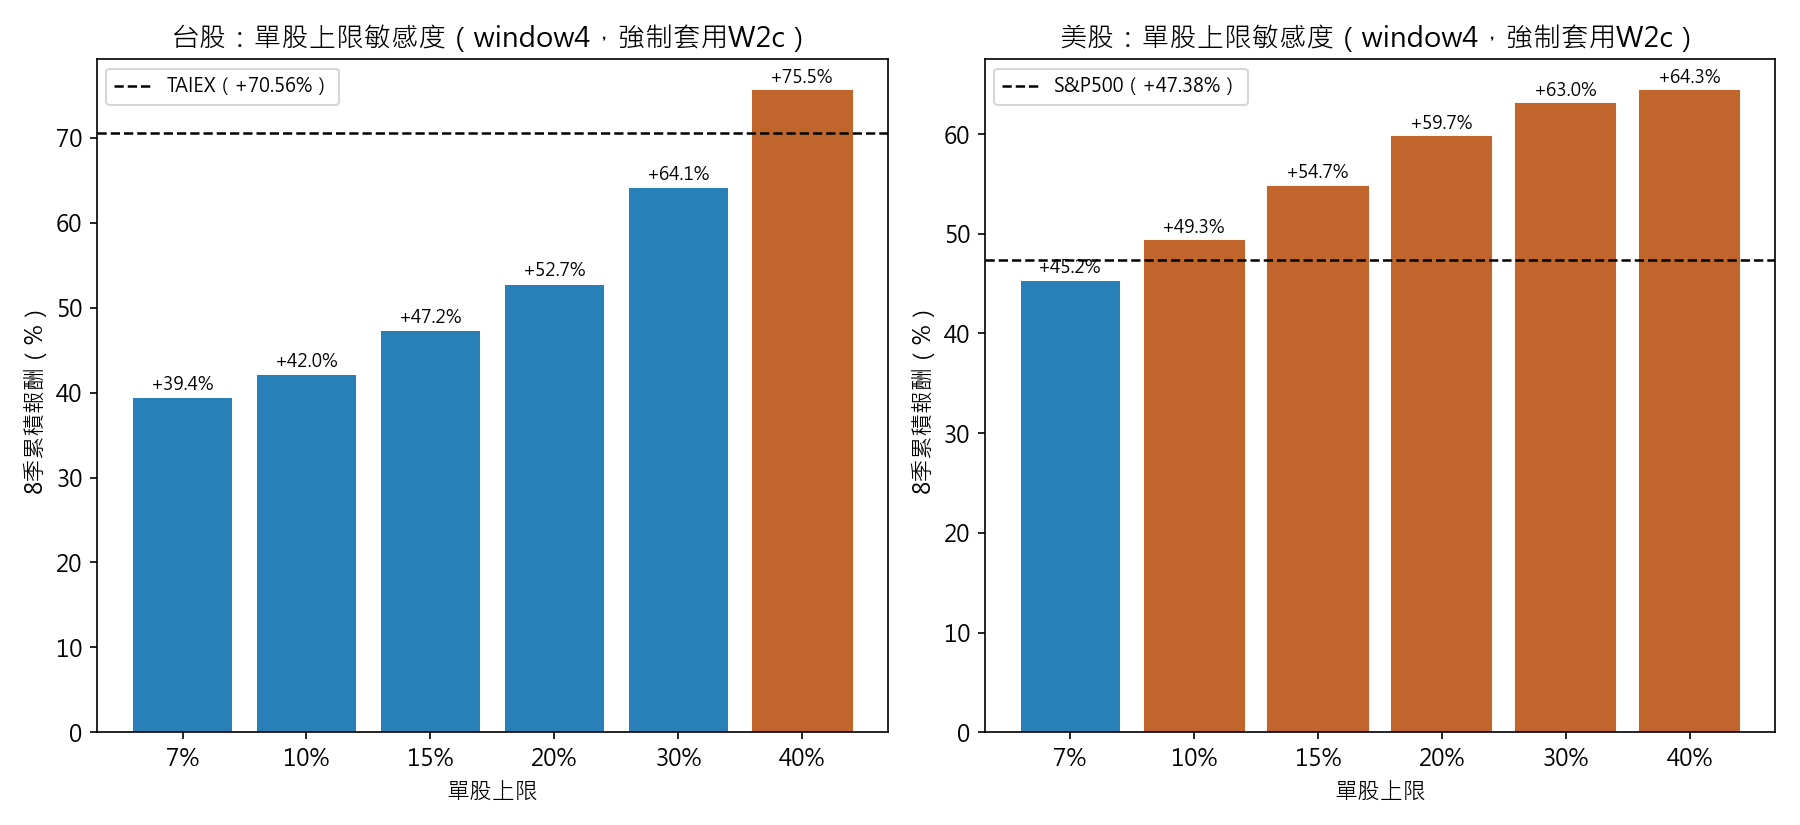
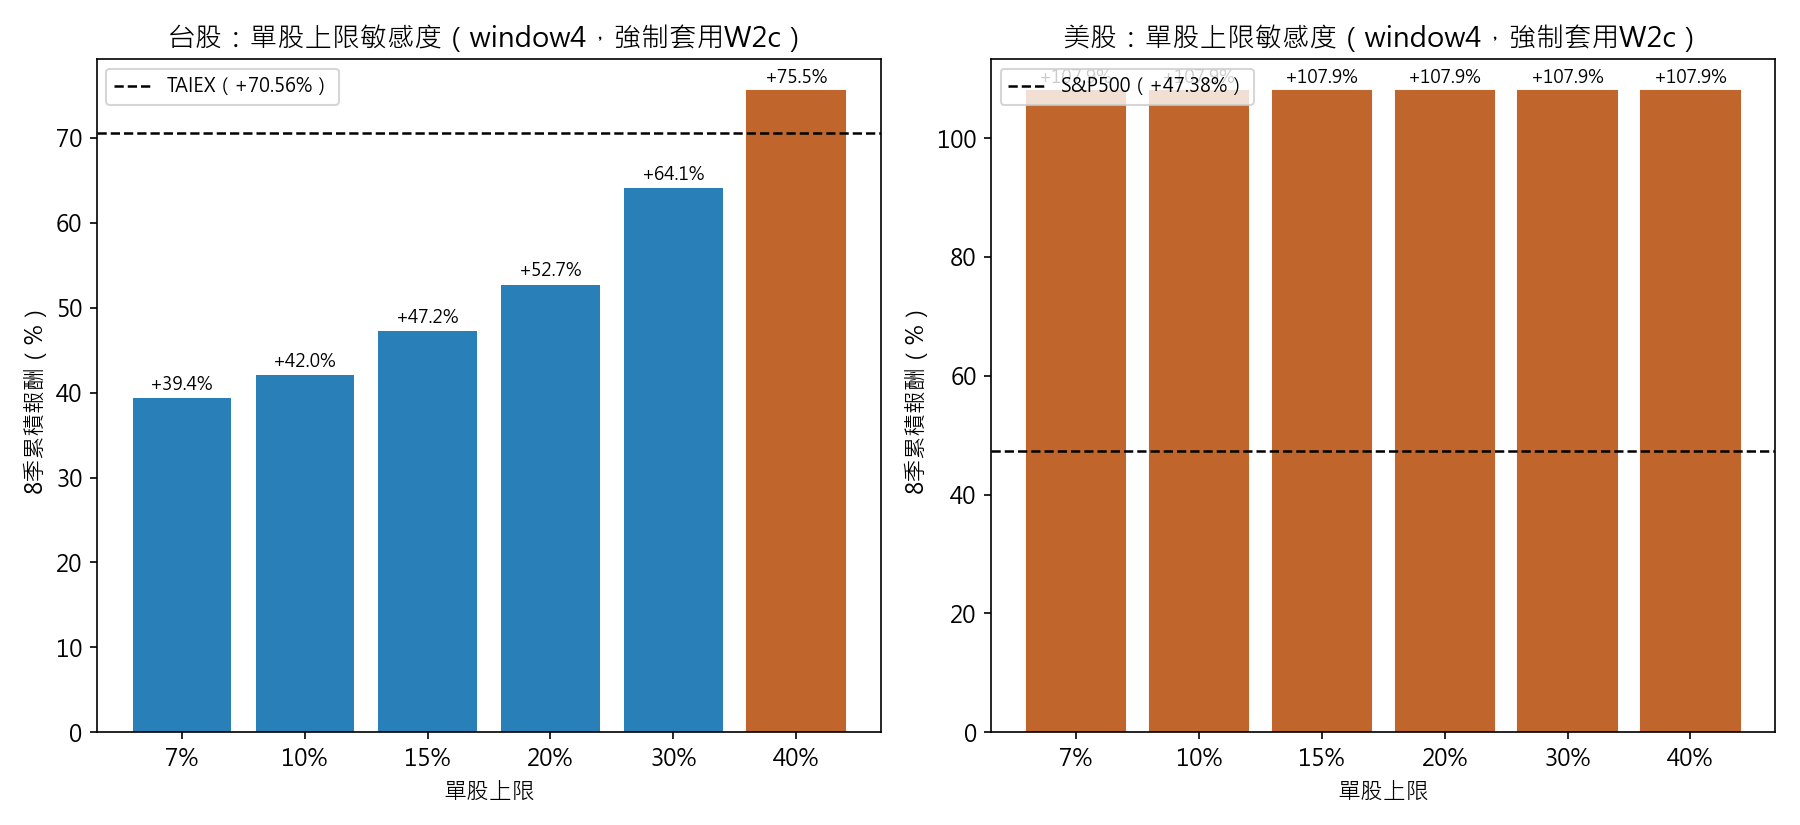
123

diff --git a/文件/研究進度報告_2026-10-27.md b/文件/研究進度報告_2026-10-27.md
@@ -41,7 +41,7 @@ TW+US各50%資本權重混合（exclude_v1池）：
 
 - 台股baseline：2024Q1（-0.79%）、2024Q4（-2.70%）小幅回撤後都創新高；2025Q1最深（-6.34%），比TAIEX同期（-9.89%）淺，隨即在2025Q2創新高——全程都比大盤淺。
 - 台股exclude_v1：2024Q4（-4.35%）、2025Q1最深（-12.91%，**比TAIEX同期更深**）、2025Q2仍在回撤中（-5.65%，TAIEX同期已收斂到-2.18%）——是四組裡唯一一組逐季軌跡劣於大盤的。
-- 美股baseline／exclude_v1：全程只有2024Q2（-2.43%／-2.92%，S&P500同期無回撤）跟2025Q1兩個回撤點，2025Q1兩者（-9.61%／-10.89%）都是S&P500同期（-4.27%）的2.2~2.5倍深，2025Q2起同步創新高。
+- 美股baseline／exclude_v1：全程只有2024Q2（-2.43%／-2.92%，S&P500同期無回撤）跟2025Q1兩個回撤點，2025Q1兩者（-9.61%／-10.89%）分別是S&P500同期（-4.27%）的2.25倍、2.55倍深，2025Q2起同步創新高。
 
 ## 五、台股策略跟不上大盤的原因
 
@@ -101,20 +101,19 @@ TW+US各50%資本權重混合（exclude_v1池）：
 | 30% | +64.07% | -6.49pp | -8.95% |
 | 40% | **+75.47%** | **+4.92pp（贏大盤）** | -9.80% |
 
+⚠ **2026-10-27訂正**：下面美股數字原本誤用了台股的單檔市值傾斜變體計算，正確設計應該是`W2C_VARIANT_BY_MARKET`指定的**籃子版（K=3，往市值最大3檔分散傾斜）**——production正式路徑（`simulate.py`）一直都有正確分流，只有這支離線cap-sweep腳本漏接，已修正重算。
+
 **美股**（對照S&P500：累積+47.38%，同期MDD **-4.27%**）：
 
 | 上限 | 8季累積報酬 | 超額 | MDD（季頻取樣） |
 |---|---|---|---|
-| 7% | +45.22% | -2.16pp | -3.93% |
-| 10% | **+49.27%** | **+1.89pp（已贏大盤）** | -5.00% |
-| 15% | +54.72% | +7.34pp | -6.76% |
-| 20% | +59.71% | +12.33pp | -8.47% |
-| 30% | +62.99% | +15.61pp | -9.88% |
-| 40% | +64.29% | +16.91pp | -9.88% |
+| 7%~40%（全部） | **+107.86%** | **+60.48pp（全面贏大盤）** | -10.93% |
 
-兩個市場曲線形狀不同：台股報酬隨上限放寬平滑上升、要到40%才贏大盤；美股只要10%就贏大盤，且20~30%之後報酬成長明顯趨緩（30%→40%只增加1.3pp，20%→30%增加3.28pp）。MDD則兩市場都隨上限放寬單調惡化（上限越鬆、持股越集中、回撤越深），美股30%→40%MDD持平（-9.88%兩者相同，代表那兩季的最大回撤已由同一檔重壓股主導、上限放寬到40%未再進一步加劇集中）；報酬跟風險呈同向抵換，上限放寬不是「免費的」報酬提升。
+🔴 **cap在7%~40%整個範圍內對美股完全無感**——六個上限等級的報酬/MDD逐位完全相同。原因是籃子版的傾斜幅度天生就很小：診斷每季籃子內最大單股權重，8季範圍只有0.87%~1.72%（`tilt_weights_basket()`只重分配籃子3檔股票原本就很小的權重總和，不像單檔版會把整個投組的市值加權都灌到一檔），離最低測試上限7%還差一大截，`cap_and_redistribute()`從頭到尾沒被觸發過一次。這不是失敗，是籃子設計（K=3分散）跟cap機制交互作用下的真實結果：**單股上限這個維度對美股的籃子版W2c沒有調整空間**，要讓美股受cap影響，得先放大`W2C_BASKET_K`（但這會改變W2c variant本身的設計，不是單純調cap）。
 
-**跟大盤MDD比較**：台股所有上限等級的MDD（-7.10%~-9.80%）都優於TAIEX同期（-9.89%），連40%這個贏報酬的上限等級，風險還是略低於大盤。美股則相反：10%以上的上限MDD（-5.00%~-9.88%）全部劣於S&P500同期（-4.27%），代表美股策略要贏過大盤報酬，得承擔比大盤更深的回撤——跟台股「報酬風險雙贏」的情況不同，美股是用風險換報酬。
+兩個市場曲線形狀完全不同：台股報酬隨上限放寬平滑上升、要到40%才贏大盤，是因為單檔傾斜能持續把權重集中到單一支股票；美股用籃子版分散到3檔，傾斜力度本身就被K=3侷限住，cap這個維度對它沒有意義——這跟§3.5「美股籃子版力度特性跟台股單檔不同」的既有結論方向一致，但這次是第一次用正確變體量化出「無感」這個具體結論。
+
+**跟大盤MDD比較**：台股所有上限等級的MDD（-7.10%~-9.80%）都優於TAIEX同期（-9.89%），連40%這個贏報酬的上限等級，風險還是略低於大盤，報酬風險雙贏。美股籃子版MDD（-10.93%）劣於S&P500同期（-4.27%，深2.5倍以上）、但報酬（+107.86%）也大幅贏過大盤（+60.48pp）——這組風險代價不是來自cap（cap完全無感），是W2c籃子傾斜機制本身的集中效果。
 
 ## 九、Coverage Tilt／RepSwap機制效果驗證（台美股，window4）
 
@@ -175,7 +174,7 @@ TW+US各50%資本權重混合（exclude_v1池）：
 
 ![圖10｜美股：單股上限敏感度逐季報酬率與回撤軌跡（6個cap等級 vs 大盤）](../_analysis_outputs_applayer/report_charts_1027/10_us_cap_sweep_quarterly.png)
 
-**逐季型態**（圖9、圖10，顏色越深＝上限越鬆）：兩市場的cap排序在每一季都保持單調（上限越鬆、同方向的漲跌幅越大），不是只有累積數字單調，逐季也沒有例外季——這代表cap對報酬/風險的影響是持續性的結構效果，不是被少數極端季撐出來的假象。台股2025Q1（cap=7%時-7.10%、cap=40%時-9.80%，隨cap單調惡化）、美股2025Q1（cap=7%時-3.93%、cap=40%時-9.88%，同樣單調）都是全年最深的回撤季，且cap越鬆回撤越深，兩市場同步，顯示單股上限放寬的風險代價集中在同一個總經壓力季節發作，不是分散在不同時間點。
+**逐季型態**（圖9、圖10，顏色越深＝上限越鬆；圖10已更新為修正後的籃子版數字）：台股的cap排序在每一季都保持單調（上限越鬆、同方向的漲跌幅越大），不是只有累積數字單調，逐季也沒有例外季——這代表cap對報酬/風險的影響是持續性的結構效果，不是被少數極端季撐出來的假象。台股2025Q1（cap=7%時-7.10%、cap=40%時-9.80%，隨cap單調惡化）是全年最深的回撤季，TAIEX同期也是全年最深（-9.89%），顯示單股上限放寬的風險代價集中在跟大盤同一個總經壓力季節發作。美股改用正確的籃子版後，圖10的六條cap線逐季完全重疊成一條——不只累積數字無感，每一季的報酬跟回撤都逐位相同，確認cap這個維度對美股籃子版W2c在7%~40%範圍內沒有任何影響力，不是巧合或少數季抵銷出來的假象。
 
 ## 十三、逐季AI決策紀錄（台美股，四組production checkpoint）
 

diff --git a/文件/實驗收尾追蹤.md b/文件/實驗收尾追蹤.md
@@ -211,8 +211,30 @@ checkpoint並重跑完成：
   production觸發驗證（仍只是「能被觸發」不是「被agent選中過」）。
 - **W2c單股上限敏感度分析，台股重跑驗證+美股首次補齊**
   （`_cap_sweep_window4.py`，離線反事實，window4）：TW數字跟10-05版
-  完全一致（確認非過期），US新增：7%=-2.16pp、10%=+1.89pp（已贏S&P500）、
-  40%=+16.91pp，曲線20-30%後明顯趨緩，跟TW的平滑近線性曲線形狀不同。
+  完全一致（確認非過期）。
+  🔴🔴 **2026-10-27同日二次修正**：美股第一版（7%=-2.16pp、10%=+1.89pp
+  已贏S&P500、40%=+16.91pp，曲線20-30%後明顯趨緩）誤用了台股的單檔
+  市值傾斜（`tilt_weights()`），沒有依`W2C_VARIANT_BY_MARKET`分流到
+  正確的籃子版（K=3）——production正式路徑（`simulate.py`經
+  `apply_w2c_for_market()`）一直是對的，只有這支離線cap-sweep腳本漏接。
+  改用`tilt_weights_basket()`重算後，結論完全不同：**cap在7%~40%整個
+  範圍內對美股完全無感**（六個上限等級報酬/MDD逐季逐位相同，+107.86%、
+  MDD-10.93%），因為籃子版傾斜力度天生被K=3侷限住（診斷每季最大籃子
+  權重只有0.87%~1.72%，遠低於最低測試cap=7%，`cap_and_redistribute()`
+  從未被觸發）。第一版數字已從研究進度報告10-27、結果彙整報告、論文
+  大綱三份文件撤回並改正，`_cap_sweep_window4.py`／`_cap_sweep_window4_
+  quarterly.py`兩支腳本都已修正並加註說明。
+- **W2c機制效果上限（台股，真實L2 vs 強制全開）**：真實L2只在M1-D真的
+  觸發時才套用W2c（3/8季），另測一組「全開」反事實——每季強制套用、
+  cap=30%，不經agent判斷、不含M2：control0+14.44% < 真實L2+44.18% <
+  W2c全開+64.07%（此組TW資料不受上述美股變體bug影響，已單獨核對維持
+  不變）。已整理進研究進度報告10-27§十一、結果彙整報告§3.4、論文大綱
+  4.3.2第三步。
+- **逐季MDD/AI決策紀錄補強**：§四新增台美股baseline/exclude_v1四組的
+  逐季回撤軌跡文字說明（搭配既有圖3/圖4）；新增§十三「逐季AI決策紀錄」，
+  從4組production checkpoint的`decision.decision`／`config_used.
+  w2c_applied`欄位彙整成中文化的逐季決策表（區分「決策」跟「已套用」，
+  一季決策延遲），逐格核對過32個儲存格全部正確。
 - **Active Share分析，美股首次補齊**（`_check_active_share_both_markets.
   py`，`weights.active_share()`已補成正式可重用函式，原本只有台股的
   ad-hoc版本）。
